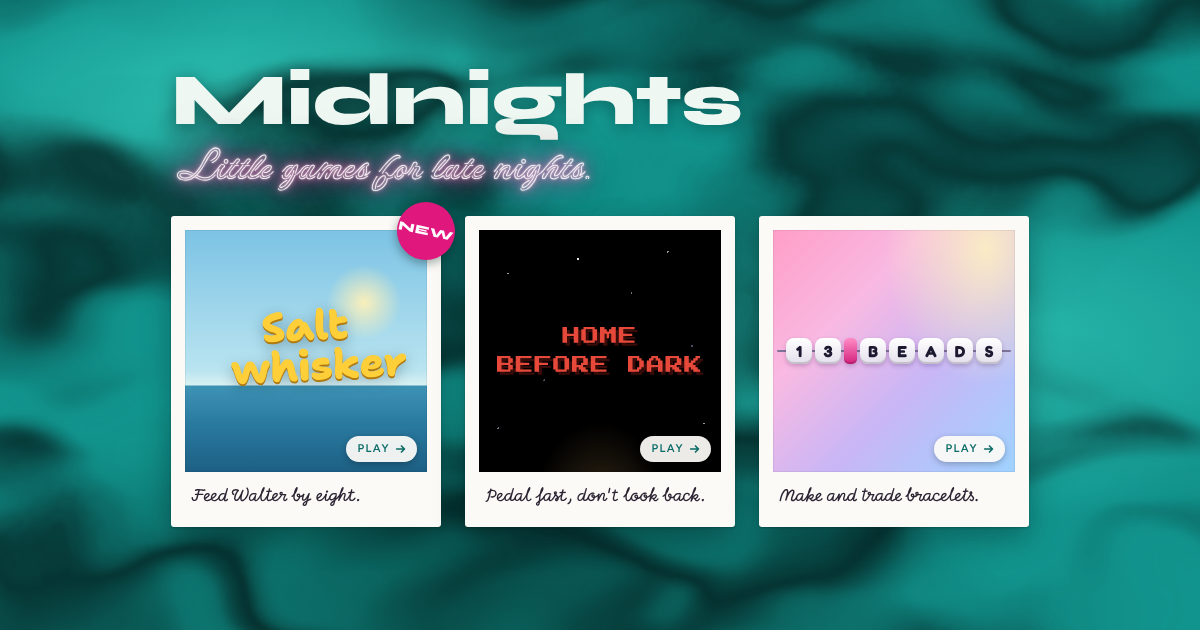
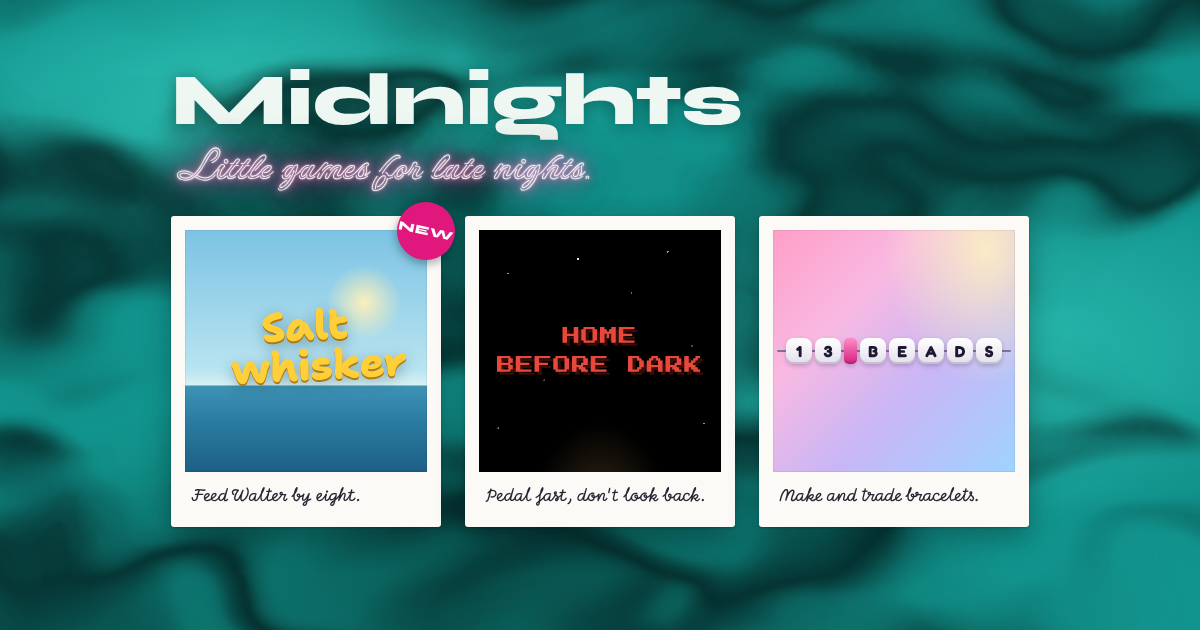
Remove the Play pills; the whole card is the link

Changed region(s): [[0.7708, 0.6937, 0.8633, 0.754], [0.5242, 0.6937, 0.6167, 0.754], [0.2775, 0.6937, 0.37, 0.754]]

diff --git a/index.html b/index.html
@@ -64,7 +64,7 @@
       45% { opacity: .7; }
     }
     @media (prefers-reduced-motion: reduce) { .tagline, .tagline .tube { animation: none; } }
-    /* Polaroid cards: white frame, deep bottom margin with a handwritten teaser and an always-visible play cue. Newest game first. */
+    /* Polaroid cards: white frame, deep bottom margin with a handwritten teaser. The whole card is the link. Newest game first. */
     .games { display: grid; grid-template-columns: repeat(auto-fill, minmax(264px, 1fr)); gap: 40px 32px; list-style: none; margin: 0; padding: 0; justify-items: center; }
     .games > li { width: 100%; max-width: 300px; }
     .card { position: relative; display: flex; flex-direction: column; background: var(--photo-paper); color: var(--photo-ink); text-decoration: none; padding: 14px 14px 0; border-radius: 3px; height: 100%;
@@ -95,9 +95,6 @@
     .caption { padding: 14px 6px 22px; display: flex; align-items: center; flex: 1; }
     /* One line, sized so the longest teaser (221px at 14px) fits the narrowest card (264px card, 224px of caption). */
     .caption p { margin: 0; font: 400 .875rem/1.35 var(--hand); color: var(--photo-ink); white-space: nowrap; }
-    .play { position: absolute; right: 10px; bottom: 10px; display: inline-flex; align-items: center; gap: 4px; padding: 6px 9px 6px 11px; border-radius: 999px; background: rgba(251, 250, 246, .94); box-shadow: 0 2px 6px rgba(0, 0, 0, .25); font: 600 .7rem/1 var(--body); letter-spacing: .12em; text-transform: uppercase; color: #0b6b66; }
-    .play svg { transition: transform .18s ease; }
-    a.card:hover .play svg, a.card:focus-visible .play svg { transform: translateX(3px); }
     .sticker { position: absolute; top: -14px; right: -14px; z-index: 1; width: 58px; height: 58px; border-radius: 50%; display: grid; place-items: center;
       background: #e0177d; color: #ffffff; font: 800 .78rem/1 var(--title); letter-spacing: .06em; text-transform: uppercase;
       transform: rotate(12deg); box-shadow: 0 4px 10px rgba(2, 30, 28, .35); }
@@ -123,7 +120,7 @@
     footer p { display: inline-block; margin: 0; padding: 9px 16px; border-radius: 18px; color: var(--ink); background: rgba(3, 36, 34, .62); }
     footer a { color: inherit; text-decoration: underline; text-decoration-thickness: 1px; text-underline-offset: 3px; }
     footer a:hover, footer a:focus-visible { color: var(--accent); }
-    @media (prefers-reduced-motion: reduce) { .card, .play svg { transition: none; } }
+    @media (prefers-reduced-motion: reduce) { .card { transition: none; } }
   </style>
 </head>
 <body>
@@ -138,7 +135,6 @@
           <span class="sticker" aria-hidden="true">New</span>
           <div class="art art-salt" aria-hidden="true">
             <p class="salt-title"><span>Salt</span><span>whisker</span></p>
-            <span class="play">Play <svg viewBox="0 0 16 16" width="14" height="14"><path d="M3 8h9M8.5 4.5 12 8l-3.5 3.5" fill="none" stroke="currentColor" stroke-width="1.8" stroke-linecap="round" stroke-linejoin="round"/></svg></span>
           </div>
           <div class="caption" aria-hidden="true">
             <p>Feed Walter by eight.</p>
@@ -149,7 +145,6 @@
         <a class="card" href="/homebeforedark/" aria-label="Home Before Dark. Pedal fast, don't look back.">
           <div class="art art-night" aria-hidden="true">
             <p class="night-title"><span>HOME</span><span>BEFORE DARK</span></p>
-            <span class="play">Play <svg viewBox="0 0 16 16" width="14" height="14"><path d="M3 8h9M8.5 4.5 12 8l-3.5 3.5" fill="none" stroke="currentColor" stroke-width="1.8" stroke-linecap="round" stroke-linejoin="round"/></svg></span>
           </div>
           <div class="caption" aria-hidden="true">
             <p>Pedal fast, don't look back.</p>
@@ -160,7 +155,6 @@
         <a class="card" href="/13-beads/" aria-label="13 Beads. Make and trade bracelets.">
           <div class="art" aria-hidden="true">
             <div class="mark"><span>1</span><span>3</span><span class="dot"></span><span>B</span><span>E</span><span>A</span><span>D</span><span>S</span></div>
-            <span class="play">Play <svg viewBox="0 0 16 16" width="14" height="14"><path d="M3 8h9M8.5 4.5 12 8l-3.5 3.5" fill="none" stroke="currentColor" stroke-width="1.8" stroke-linecap="round" stroke-linejoin="round"/></svg></span>
           </div>
           <div class="caption" aria-hidden="true">
             <p>Make and trade bracelets.</p>

diff --git a/CLAUDE.md b/CLAUDE.md
@@ -5,7 +5,7 @@ The home page for https://games.shauna.digital. Read `README.md`: it explains th
 - Plain static site: `index.html` and `vercel.json`. No build step.
 - Repository `shaunagits/games`, Vercel project `games`, team `shaunagits-projects`. Every push to `main` deploys to production.
 - Current design (updated 2026-10-11): title "Midnights" (Syne), neon tagline "Little games for late nights." that flickers, straight (untilted) polaroid game cards on a marbled teal background drawn in code (original, inspired by a teal marbled vinyl photo; the photo and its label are not used), teal polaroid tab icon. Each card's photo is the game's own title treatment: 13 Beads is its full bead wordmark (1 3, pink bead, B E A D S on a string, copied from the game's header), Home Before Dark is Press Start 2P, Saltwhisker is Shantell Sans in sou'wester yellow over a soft sea.
-- Cards (2026-10-11): newest game first with a pink "New" sticker (move it when a new game lands). Under each photo is a one-line handwritten teaser in Momo Signature at .875rem (Shauna's pick, 2026-10-11) (no game name; the name is in the link's aria-label). It must fit on one line on the narrowest card (cards are at least 264px, leaving 224px of caption), so keep teasers to about 28 characters and measure any new one. An always-visible "Play" pill sits in the photo's bottom-right corner. Teasers chosen by Shauna: Saltwhisker "Feed Walter by eight." (Walter is the cat; Shauna, 2026-10-11), Home Before Dark "Pedal fast, don't look back.", 13 Beads "Make and trade bracelets." Keep new captions in that style. A "Still developing." polaroid (slow fog) for the next game exists but is hidden in an HTML comment (Shauna, 2026-10-11); restore it to tease a game.
+- Cards (2026-10-11): newest game first with a pink "New" sticker (move it when a new game lands). Under each photo is a one-line handwritten teaser in Momo Signature at .875rem (Shauna's pick, 2026-10-11) (no game name; the name is in the link's aria-label). It must fit on one line on the narrowest card (cards are at least 264px, leaving 224px of caption), so keep teasers to about 28 characters and measure any new one. No "Play" button: the whole card is the link (Shauna removed the Play pills, 2026-10-11). Teasers chosen by Shauna: Saltwhisker "Feed Walter by eight." (Walter is the cat; Shauna, 2026-10-11), Home Before Dark "Pedal fast, don't look back.", 13 Beads "Make and trade bracelets." Keep new captions in that style. A "Still developing." polaroid (slow fog) for the next game exists but is hidden in an HTML comment (Shauna, 2026-10-11); restore it to tease a game.
 - Footer, on a soft dark band so the light text passes contrast: "Made by Shauna." (links to https://shauna.dev) plus "By day I build software for growing businesses at shauna.digital" (links to https://shauna.digital).
 - The page description is "Little games for late nights. Made by Shauna." Link previews use og:title "Midnights: little games for late nights" and `og.png` (1200 by 630, the three cards on marble). Regenerate `og.png` when the cards change.
 - Vercel builds one project at a time for this account; a stuck build on another project (for example faf-app) blocks deploys here. Check the queue before assuming a push failed.

diff --git a/README.md b/README.md
@@ -41,7 +41,7 @@ Little browser games for late nights. This repository is the home page that ties
 ## Things to know
 
 - A game saves player data per web address. Data saved at a game's own `vercel.app` address does not appear at `games.shauna.digital/<path>`.
-- Home page design (updated 2026-10-11): title "Midnights" in Syne, a flickering pink neon tagline "Little games for late nights." (Neonderthaw), straight polaroid game cards with one-line handwritten teasers (Momo Signature) and a "Play" pill on each photo, newest game first with a "New" sticker, a hidden "Still developing." card ready for the next game, on a marbled teal background drawn in code. Colors and fonts are defined at the top of the `<style>` block in `index.html`.
+- Home page design (updated 2026-10-11): title "Midnights" in Syne, a flickering pink neon tagline "Little games for late nights." (Neonderthaw), straight polaroid game cards with one-line handwritten teasers (Momo Signature), newest game first with a "New" sticker, a hidden "Still developing." card ready for the next game, on a marbled teal background drawn in code. Colors and fonts are defined at the top of the `<style>` block in `index.html`.
 - Link previews: `og.png` (1200 by 630) plus Open Graph and Twitter card tags in the page head. Regenerate the image when the cards change.
 - All artwork is original. No artist names, logos, album artwork, or lyrics.
 
